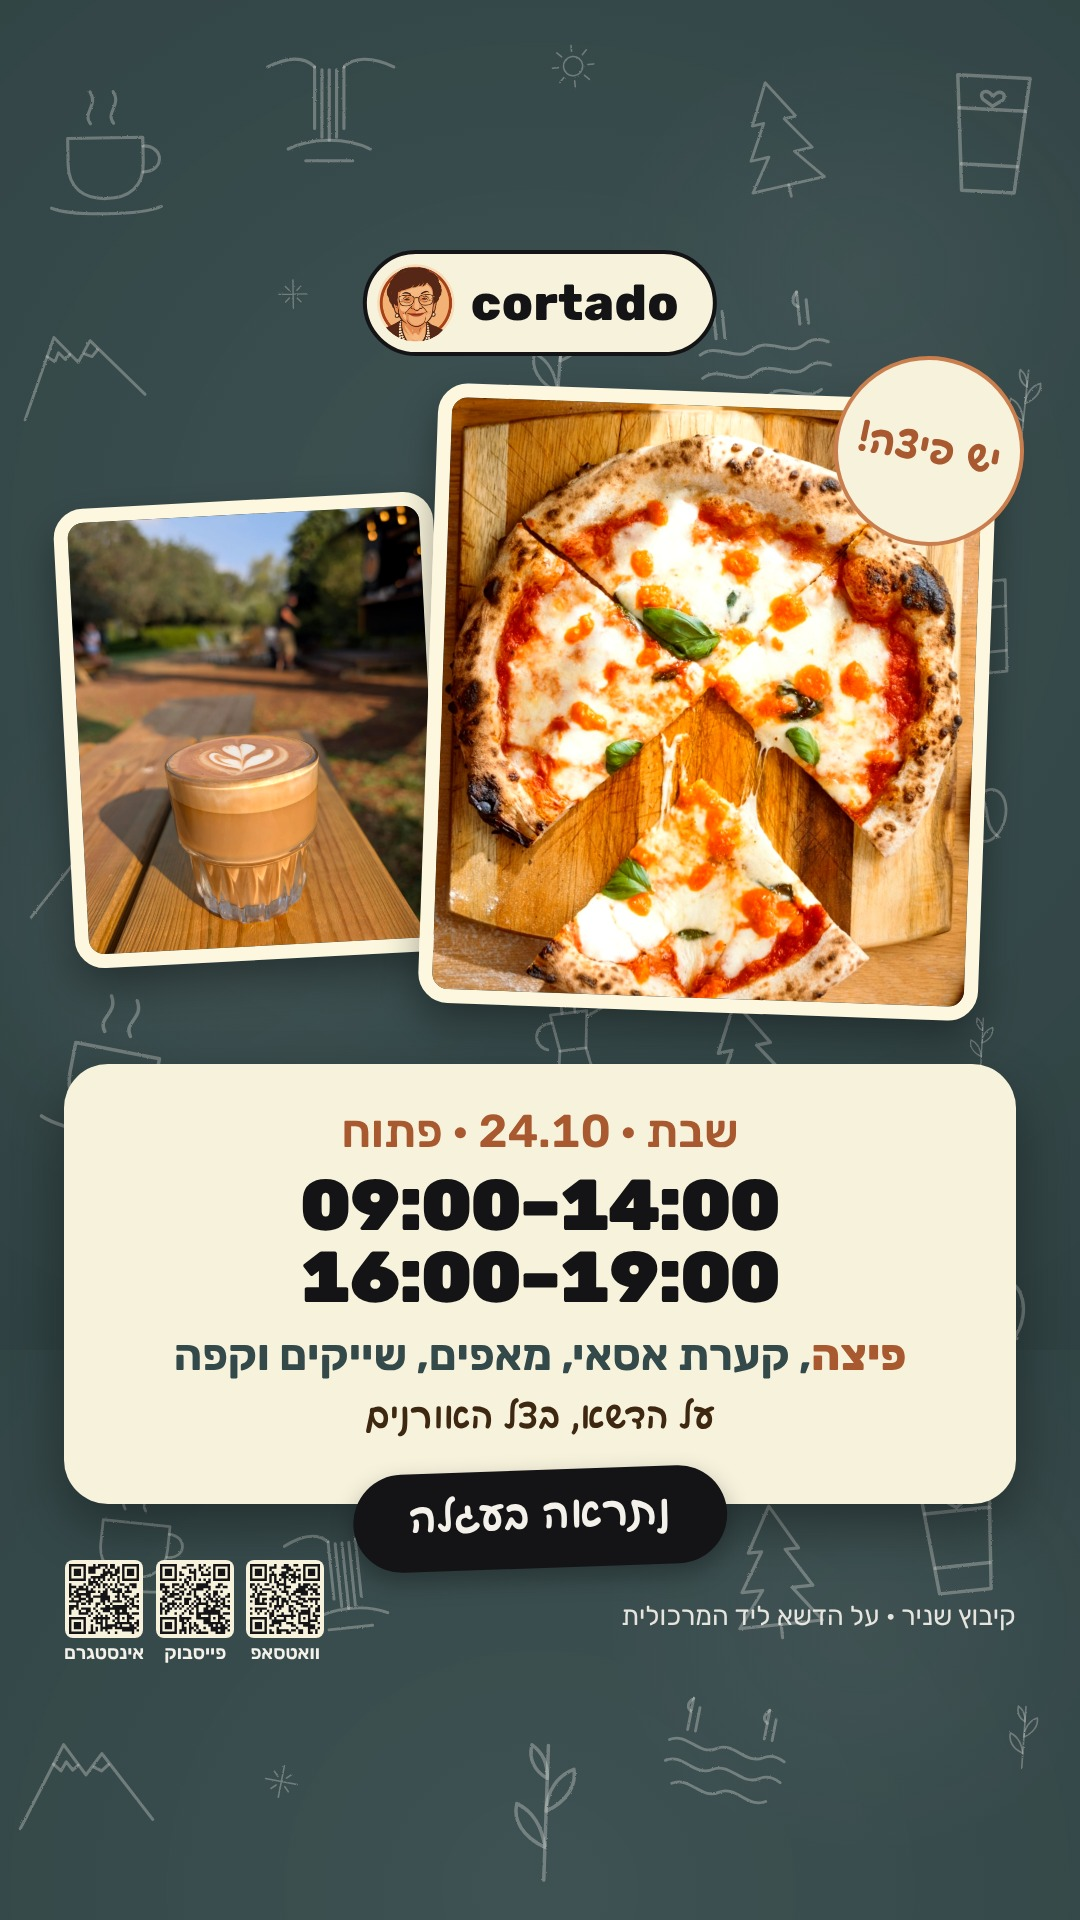
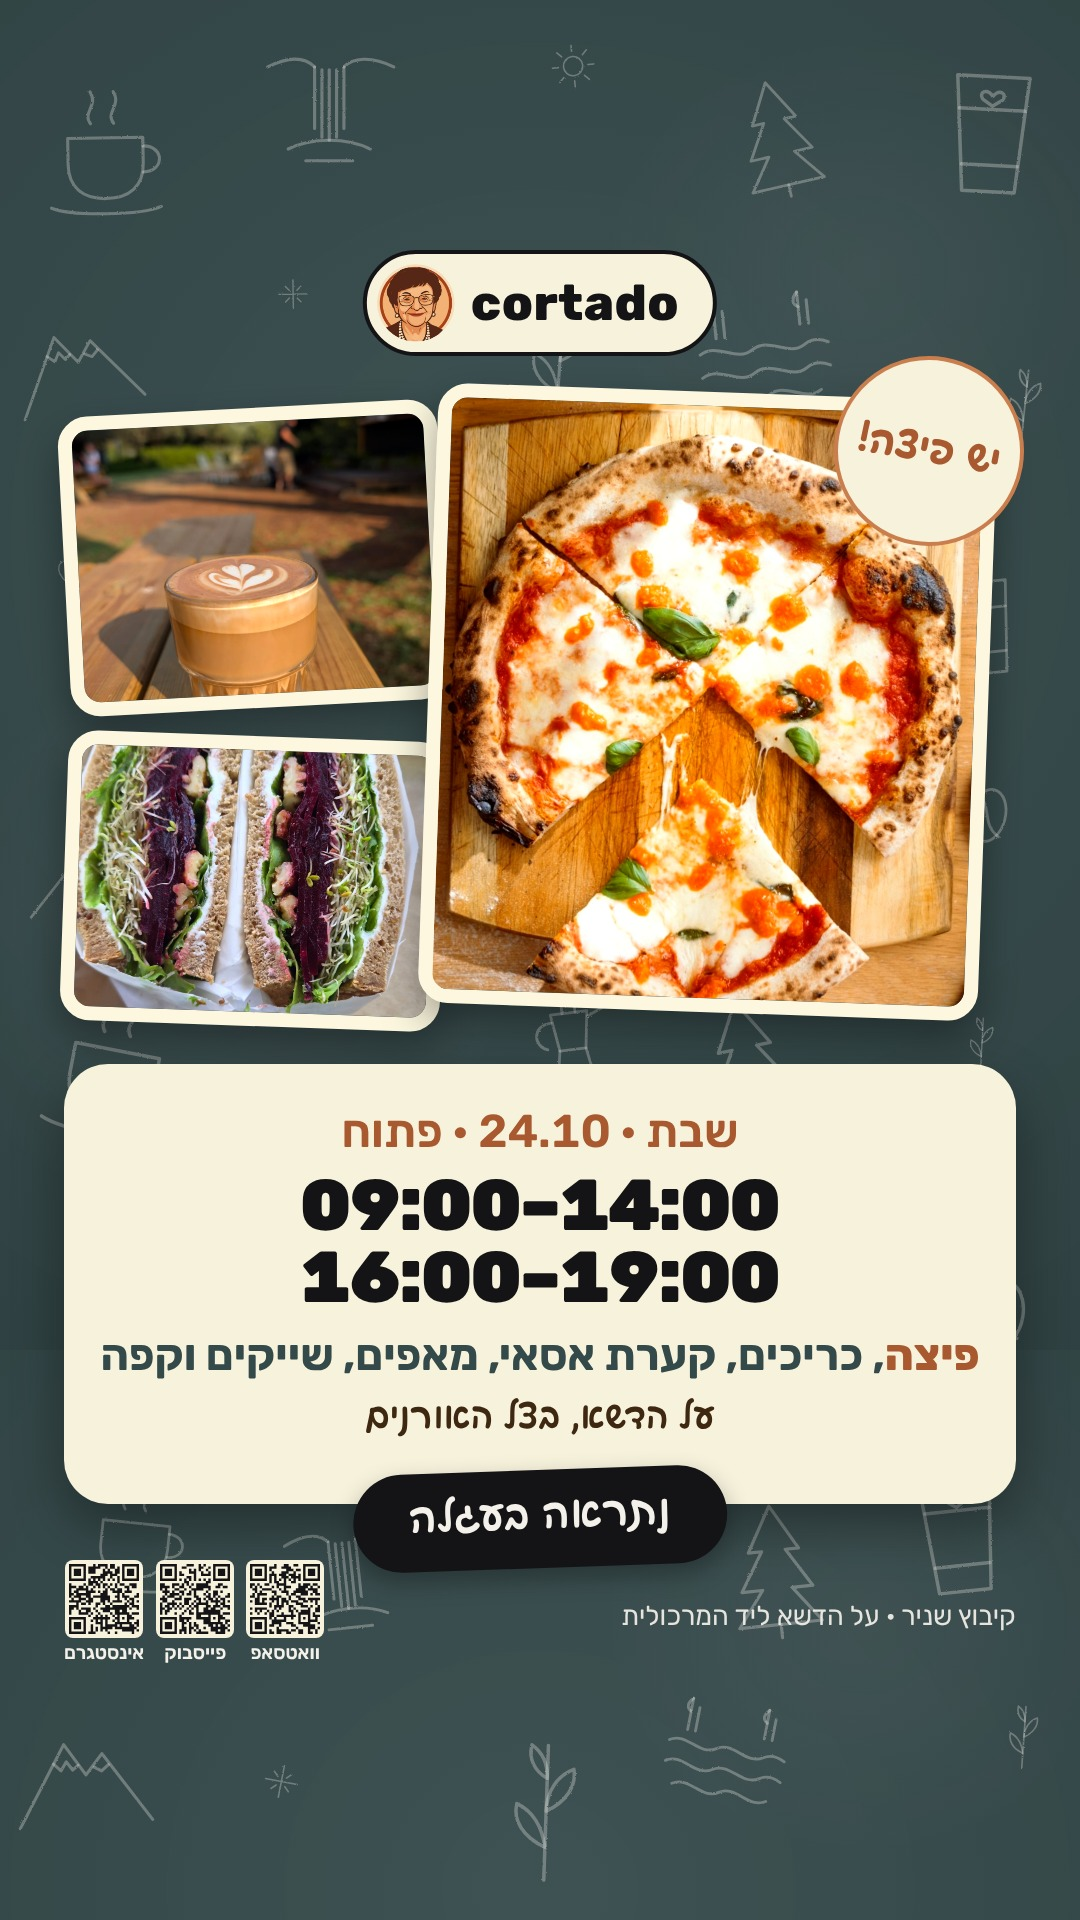
סטורי שבת 24.10: גם כריך (תבנית 56: תמונה שלישית אופציונלית, story.third)
Claude-Session: https://claude.ai/code/session_01JbPaxp5otpJXVgnoNntSo5

Changed region(s): [[0.0306, 0.1875, 0.4278, 0.5625], [0.0917, 0.6875, 0.9167, 0.7188]]

diff --git a/toolkit/templates/56-next-day-story.html b/toolkit/templates/56-next-day-story.html
@@ -8,6 +8,10 @@ body{height:1920px}
 .p{position:absolute;object-fit:cover;border:14px solid var(--foam);border-radius:30px;box-shadow:0 18px 40px rgba(0,0,0,.36);filter:contrast(1.04) saturate(1.06)}
 .main{right:92px;top:392px;width:560px;height:620px;object-position:50% 50%;transform:rotate(2deg);z-index:2}
 .second{left:64px;top:500px;width:380px;height:460px;object-position:50% 55%;transform:rotate(-3deg);z-index:1}
+/* optional third photo (story.third): the left column splits into two */
+.third{display:none;left:64px;top:736px;width:380px;height:290px;object-position:50% 50%;transform:rotate(2deg);z-index:1}
+.has-third .second{top:408px;height:300px}
+.has-third .third{display:block}
 .sticker{right:56px;top:356px;width:190px;height:190px;transform:rotate(10deg);z-index:3;
   font-family:"Playpen Sans Hebrew";font-weight:700;font-size:40px;line-height:1.05;color:var(--aida-dark);text-align:center}
 .card{left:64px;right:64px;top:1064px;height:440px;z-index:2}
@@ -25,6 +29,7 @@ body{height:1920px}
 </style></head><body class="board-bg">
 <img class="doodles" src="../assets/art/doodles-story.svg" alt="">
 <img class="p second" id="second" alt="">
+<img class="p third" id="third" alt="">
 <img class="p main" id="main" alt="">
 <div class="sticker" id="sticker"></div>
 <div class="badge"><img src="../assets/logo.png" alt=""><span>cortado</span></div>
@@ -47,6 +52,7 @@ document.getElementById('sub').innerHTML = s.sub || '';
 document.getElementById('line').textContent = s.line || '';
 document.getElementById('main').src = `../assets/photos/${s.main}`;
 document.getElementById('second').src = `../assets/photos/${s.second}`;
+if (s.third) { document.getElementById('third').src = `../assets/photos/${s.third}`; document.body.classList.add('has-third'); }
 const st = document.getElementById('sticker');
 if (s.sticker) st.textContent = s.sticker; else st.remove();
 </script>
